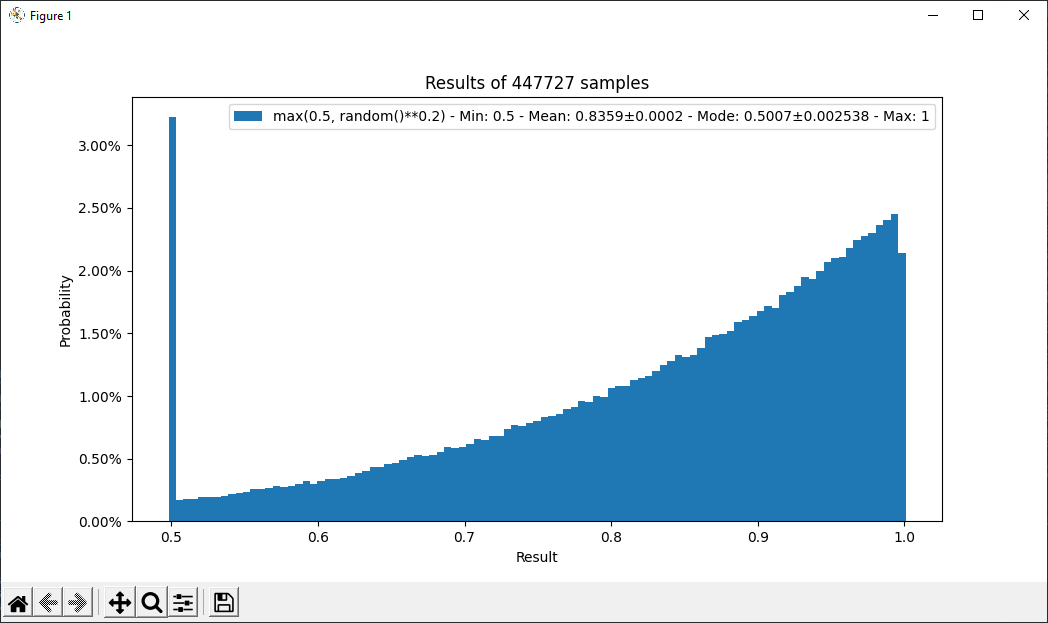
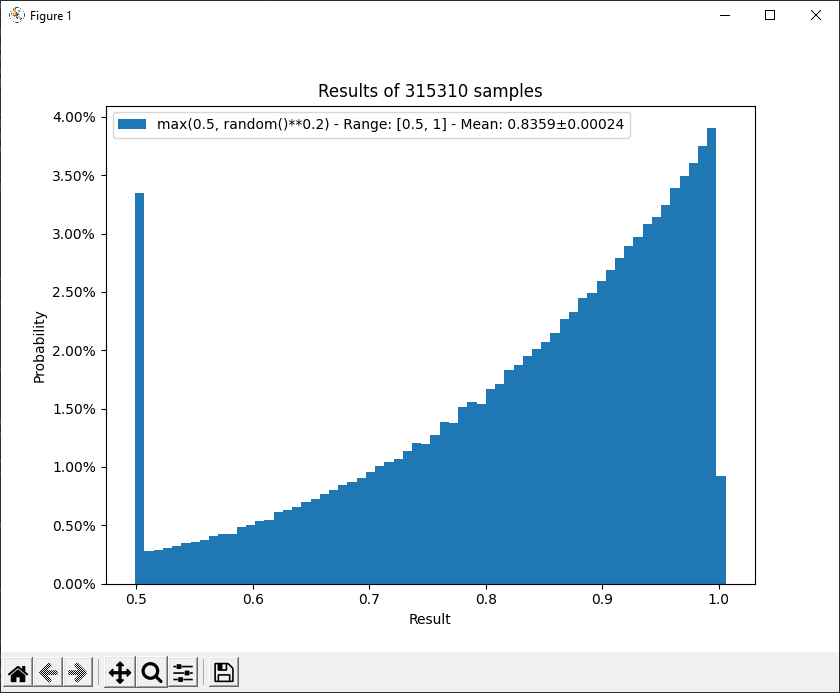
Simplify legend contents

diff --git a/carlo.py b/carlo.py
@@ -162,15 +162,16 @@ def _run_plot(receiver_pipe):
         # We have computed the bins and bar heights already, so use `.bar()`
         # instead of `.hist()`.
         for snapshot in snapshots:
-            mode = max(snapshot.bins.keys(), key=snapshot.bins.__getitem__)
-            mode_error = '' if snapshot.is_int and snapshot.bins_width <= 1 else f'±{format_number(snapshot.bins_width/2)}'
+            # Mode is not very useful right now.
+            #mode = max(snapshot.bins.keys(), key=snapshot.bins.__getitem__)
+            #mode_error = '' if snapshot.is_int and snapshot.bins_width <= 1 else f'±{format_number(snapshot.bins_width/2)}'
             if math.isnan(snapshot.variance):
                 mean_error_str = ''
             else:
                 stdev = math.sqrt(snapshot.variance)
                 mean_error = stdev / math.sqrt(snapshot.n)
                 mean_error_str = f'±{format_number2(mean_error)}'
-            legend = f'{snapshot.label} - Min: {format_number(snapshot.min)} - Mean: {format_number(snapshot.mean)}{mean_error_str} - Mode: {format_number(mode)}{mode_error} - Max: {format_number(snapshot.max)}'
+            legend = f'{snapshot.label} - Range: [{format_number(snapshot.min)}, {format_number(snapshot.max)}] - Mean: {format_number(snapshot.mean)}{mean_error_str}'
             plt.bar(snapshot.bins.keys(), [value / snapshot.n for value in snapshot.bins.values()], width=snapshot.bins_width, label=legend)
         plt.title(f'Results of {snapshots[0].n} samples')
         plt.legend()
